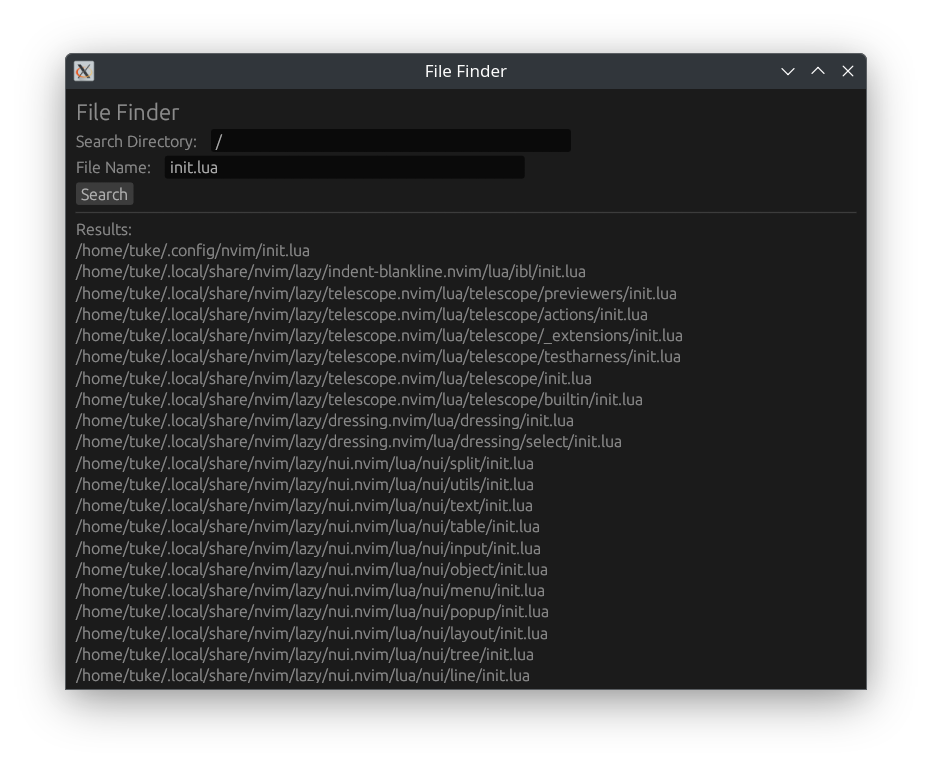
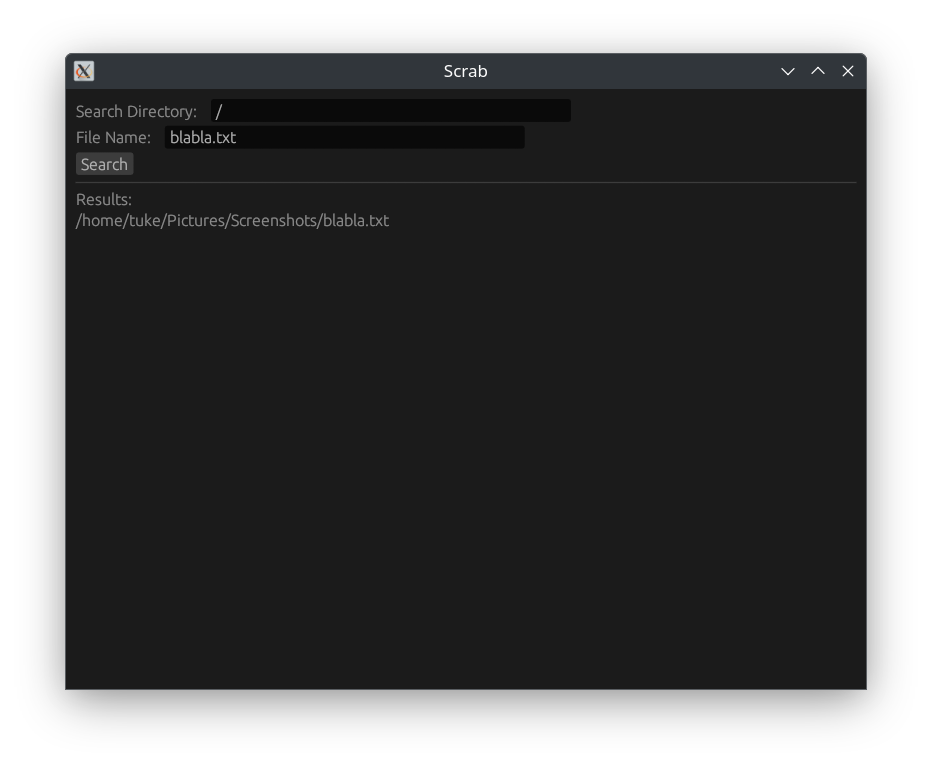
UI modification

Changed region(s): [[0.0622, 0.1199, 0.7468, 0.8996], [0.4667, 0.09, 0.529, 0.1199]]

diff --git a/src/ui.rs b/src/ui.rs
@@ -32,7 +32,6 @@ fn get_default_search_dir() -> String {
 impl eframe::App for MyApp {
     fn update(&mut self, ctx: &egui::Context, _frame: &mut eframe::Frame) {
         egui::CentralPanel::default().show(ctx, |ui| {
-            ui.heading("File Finder");
 
             ui.horizontal(|ui| {
                 ui.label("Search Directory: ");

diff --git a/src/main.rs b/src/main.rs
@@ -5,7 +5,7 @@ use ui::MyApp;
 
 fn main() -> Result<(), eframe::Error> {
     eframe::run_native(
-        "File Finder",
+        "Scrab",
         eframe::NativeOptions::default(),
         Box::new(|_cc| Ok(Box::<MyApp>::default())),
     )
